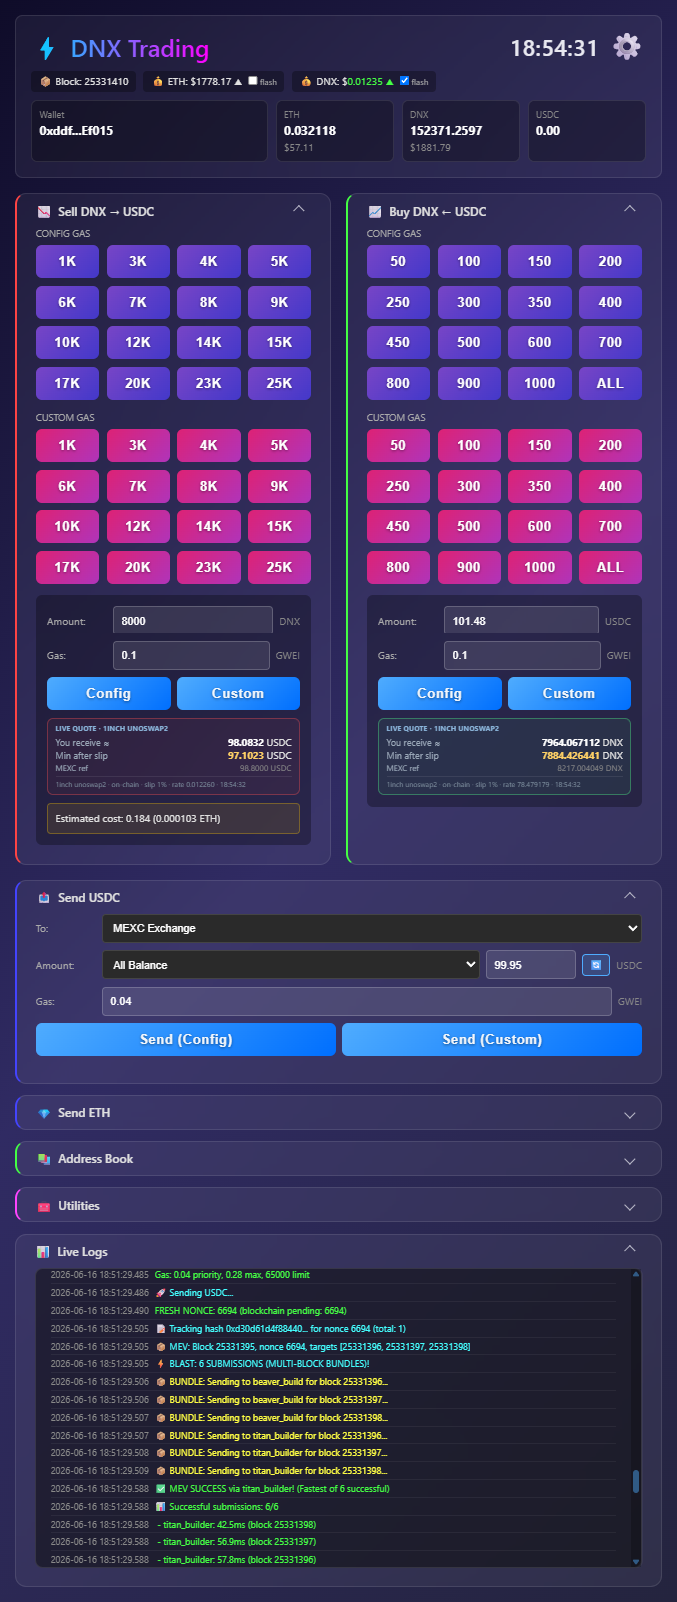
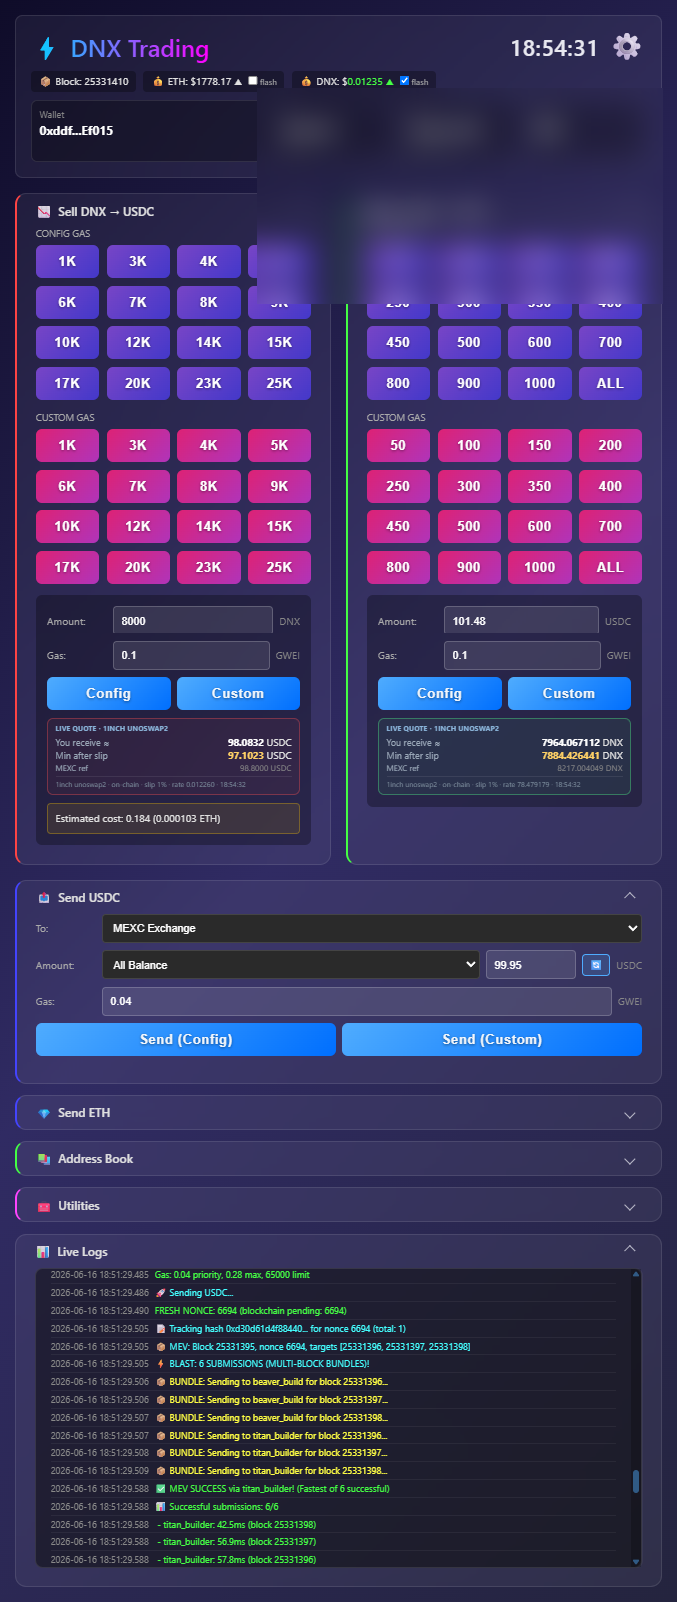
Expand overview: WHY, MEV/sandwich, full features; blur wallet balances

diff --git a/scripts/blur_wallet_balances.py b/scripts/blur_wallet_balances.py
@@ -1,0 +1,12 @@
+#!/usr/bin/env python3
+"""Anonymize wallet balance strip on public overview hero image."""
+from PIL import Image, ImageFilter
+
+path = "/home/lojzo/dex-swapper-overview/assets/dex-swapper-featured.png"
+img = Image.open(path).convert("RGB")
+w, h = img.size
+box = (int(w * 0.38), int(h * 0.055), int(w * 0.98), int(h * 0.19))
+crop = img.crop(box)
+img.paste(crop.filter(ImageFilter.GaussianBlur(radius=14)), box)
+img.save(path, optimize=True)
+print(f"blurred {path} box={box}")

diff --git a/README.md b/README.md
@@ -1,158 +1,174 @@
 # DEX Swapper
 
-![DEX Swapper — operator dashboard](assets/dex-swapper-featured.png)
+![DEX Swapper — operator dashboard (wallet balances anonymized)](assets/dex-swapper-featured.png)
 
-Operator-focused **DEX swap console** — today tuned for **Dynex (DNX) on Ethereum**, with preset sell and buy ladders, config-driven gas, live 1inch quotes, MEV builder submission, fund transfers to exchange addresses, and recovery tooling when nonces or mempools misbehave. One browser page replaces juggling wallet pop-ups, spreadsheets, and SSH log tails during active sessions. Additional token pairs can be wired in later without changing the operator workflow.
+Classic **web DEX interfaces** (1inch, Uniswap, aggregators in the browser) are built for casual users: connect wallet, approve, pick route, confirm in MetaMask, wait for RPC, hope the mempool does not sandwich you. For an operator running **dozens of size ladders per session**, that model breaks down — every swap becomes ten UI steps, unpredictable latency, and zero control over gas tiers or recovery when a nonce sticks.
 
-**Typical flows:** ladder out DNX after a CEX move → tap a **CONFIG GAS** sell size → confirm **Config** with live quote visible → watch **Live Logs** for builder blast and confirmation. Buy the dip → **Buy DNX ← USDC** preset → **Custom** with manual priority fee when the mempool spikes. Move proceeds to MEXC → expand **Send USDC**, pick exchange from the dropdown, **Send (Config)**. Stuck pending swap → **Settings** → **Check Stuck Transactions** → **Cancel Specific Nonce** or **Cancel ALL Pending**. Gas table tweak → edit `dex_swapper_gas_config.json` → **Reload Config** in settings.
+**DEX Swapper** is a **single-page operator console** wired to your own key and node. Today it targets **Dynex (DNX) ⇄ USDC on Ethereum**; the same preset-ladder + MEV pipeline can host additional pairs later. One click runs a pre-built swap path: live quote visible, config gas from JSON tables, parallel private-builder submission, and live logs — no wallet pop-up chain, no tab switching, no guessing whether the tx landed.
+
+**Why speed matters:** DNX moves on CEX tape and thin pools. The difference between a **one-click preset** and a browser DEX flow is often **seconds vs tens of seconds** — enough to miss a ladder step or eat slippage. The app optimizes the hot path: transaction templates pre-built at startup, base fee from `newHeads` WebSocket (no extra `get_block` per swap), balances and quotes cached in RAM, and **swap-in-progress lock** so you cannot double-fire while a bundle is in flight.
+
+**Typical flows:** ladder out DNX after a CEX move → **CONFIG GAS** sell size → **Config** with live quote → **Live Logs** for builder blast. Buy the dip → **Buy DNX ← USDC** preset → **Custom** priority fee when mempool spikes. Move proceeds → **Send USDC** to MEXC from address book. Stuck nonce → **Settings** → **Check Stuck** → **Cancel Specific Nonce** or **Cancel ALL**. Tune gas bands → edit `dex_swapper_gas_config.json` → **Reload Config** without restart.
 
 ## Tech stack
 
 | Layer | Technologies |
 |-------|--------------|
 | Backend | Python 3, FastAPI, uvicorn, asyncio |
-| Chain | Web3.py — swaps via 1inch router, ERC-20 transfers, EIP-1559 gas |
-| Pricing | MEXC protobuf WebSocket trades + on-chain pool math for DNX reference |
-| Block head | `newHeads` WebSocket — base fee cached in RAM between swaps |
-| MEV | HTTP keep-alive to private builders (BeaverBuild, Titan); multi-block bundle blast |
-| UI | Single-page HTML/CSS/JS embedded in FastAPI — dark operator theme |
-| Streaming | WebSocket `/ws/logs` — structured log, block, price, balance, swap events |
-| Config | JSON gas ranges (`dex_swapper_gas_config.json`), UI presets (`ui_config.json`) |
-| Secrets | Local `.env` — RPC URLs, private key, builder endpoints (private repo only) |
+| Chain | Web3.py — 1inch `unoswap2` router, ERC-20 transfers, EIP-1559 |
+| Pricing | MEXC protobuf WebSocket (ETHUSDT, DNXUSDT) + on-chain pool reference |
+| Block head | `eth_subscribe` `newHeads` — block number + base fee cached in RAM |
+| MEV | Persistent HTTP to BeaverBuild + Titan; parallel multi-block bundle blast |
+| Quotes | On-chain `unoswap2` `eth_call` only for `minReturn` (no stale CEX fallback) |
+| UI | Embedded HTML/CSS/JS — dark operator theme, collapsible panels |
+| Streaming | WebSocket `/ws/logs` — logs, blocks, prices, balances, swap state |
+| Config | `dex_swapper_gas_config.json` (gas tiers), `ui_config.json` (presets, nodes) |
+| Secrets | `.env` — key, RPC URLs, builder endpoints (**private repo only**) |
+
+## Problems this replaces (browser DEX workflow)
+
+| Pain in browser swappers | DEX Swapper approach |
+|--------------------------|----------------------|
+| MetaMask confirm on every trade | Server-side sign; operator clicks **Config** / **Custom** once |
+| Route UI + slippage modals | Fixed 1inch path; slippage % in **Settings** |
+| Gas guessed by wallet | **CONFIG GAS** tiers by size band, or manual GWEI |
+| No preset ladders | Purple/pink grids — 16+ sell sizes, 15+ buy notionals |
+| Public mempool exposure | **Private MEV builders only** — no public broadcast fallback |
+| Sandwich / frontrun anxiety | Block monitor + known attacker watch → **auto cancel all pending** |
+| Stuck pending invisible | **Check Stuck**, nonce scan, cancel via builders |
+| Balances in another tab | Header wallet card + auto refresh (~6 s) |
+| No session log | **Live Logs** WebSocket stream in-page |
+
+## MEV protection and sandwich response
+
+Swaps do **not** rely on the public mempool as the primary path. Signed raw transactions go to **BeaverBuild** and **Titan** in parallel, targeting **multiple future blocks** per submit. Builder HTTP sessions stay warm with keep-alive pings between trades.
+
+| Mechanism | Behavior |
+|-----------|----------|
+| **Parallel blast** | All active builders × block targets fired concurrently; fastest accept wins |
+| **Re-blast monitor** | If receipt missing ~24 s (~2 blocks), raw tx re-submitted to builders |
+| **No mempool fallback** | Monitor loop does not drop to public `eth_sendRawTransaction` for swaps |
+| **Cancel via builders** | Stuck swap/send cancel uses same builder path with USD cost ceiling |
+| **Attacker block watch** | Each `newHeads` block scanned; tx `from` matching configured sandwich bot → **Cancel ALL Pending** immediately |
+| **Swap lock** | `swap_in_progress` blocks second submit until current nonce path clears |
+
+This is **operator-grade MEV routing**, not a consumer “shield” toggle — you see every builder accept/reject in **Live Logs**.
+
+## Performance optimizations (hot path)
+
+- **Pre-built transaction templates** for DNX→USDC and USDC→DNX at startup — click only fills amount + `minReturn`.
+- **Base fee from WebSocket** — `baseFeePerGas` in block header updates `global_block`; gas math avoids RPC on every swap when feed is fresh (&lt;15 s).
+- **Single nonce RPC** — tracked nonce increments locally; `get_transaction_count(pending)` only when needed.
+- **Silent balance refresh** — background poll without spamming the log panel.
+- **Quote simulation** — USDC balance/allowance state override for `eth_call` when wallet USDC is zero but sell quote is needed.
+- **Fixed gas limits** per operation type (sell / buy / send) — no `estimate_gas` round-trip on the critical path.
+- **Config reload** — gas JSON + UI JSON re-read via API without process restart.
 
 ## Header — chain context and wallet
-
-The top band stays visible while you work the swap cards below.
 
 | Element | Role |
 |---------|------|
 | **Clock** | Local session time |
-| **Block** | Latest head from the block monitor |
-| **ETH price** | Reference USD for fee estimates (flash icon when the quote tick updates) |
-| **DNX price** | MEXC trade tape + on-chain reference; direction arrow on change |
-| **Wallet card** | Truncated address with **ETH**, **DNX**, and **USDC** balances (USD sublabels) |
-
-Balances refresh on a short interval so you see spendable amounts before hitting a preset. **Settings** (gear) opens the modal documented below.
+| **Block** | Latest head from block monitor (same WS feed as base fee) |
+| **ETH price** | MEXC tape; flash on tick |
+| **DNX price** | MEXC + on-chain ref; direction arrow |
+| **Wallet card** | ETH, DNX, USDC with USD sublabels (auto refresh) |
+| **Settings** | Gear → modal below |
 
 ## Sell DNX → USDC and Buy DNX ← USDC
 
-Two side-by-side cards mirror how operators run repeated size ladders.
+Side-by-side cards for ladder trading.
 
 ### Preset grids
 
-Each card exposes two button grids:
-
 | Grid | Behavior |
 |------|----------|
-| **CONFIG GAS** (purple) | Amount presets from `ui_config.json`; priority fee and base-fee multiplier come from `dex_swapper_gas_config.json` for that size band |
-| **CUSTOM GAS** (pink) | Same amount presets; you type priority fee (GWEI) in the **Gas** field and submit with **Custom** |
+| **CONFIG GAS** (purple) | Amount from `ui_config.json`; priority fee + base-fee multiplier from `dex_swapper_gas_config.json` per band |
+| **CUSTOM GAS** (pink) | Same amounts; operator types priority GWEI → **Custom** |
 
-**Sell DNX** presets span ladder sizes from small clips through large clips (configurable list). **Buy DNX** presets cover USDC notionals plus an **ALL** button that uses full USDC balance rounded down to avoid dust failures.
-
-### Amount, gas, and submit
-
-- **Amount** — numeric field; clicking a preset fills it.
-- **Gas** — priority fee in GWEI for custom path; config path ignores manual entry.
-- **Config / Custom** — primary actions; each path uses fixed gas limits tuned per operation type (DNX sell, USDC buy, sends).
+**Sell** — ladder from small clips to large (configurable). **Buy** — USDC notionals + **ALL** (full balance, rounded down).
 
 ### Live quote panel
 
-Below each card, a **LIVE QUOTE** box polls the 1inch route (Uniswap V2 path in the UI label). It shows **You receive**, **Min after slip** (slippage from settings), and **MEXC ref** so you can compare on-chain output against the CEX tape before sending. Quotes auto-refresh every 1–60 seconds (configured in settings) without flashing the whole page.
+**LIVE QUOTE** polls on-chain `unoswap2` (1inch). Shows **You receive**, **Min after slip**, **MEXC ref**. Refresh interval 1–60 s from settings. **Estimated cost** (ETH + USD) under sell card.
 
-**Estimated cost** under the sell card summarizes expected gas in ETH and USD for the chosen size.
+Execution uses on-chain quote for `minReturn` only — swap blocked if `unoswap2` fails (never silent CEX fallback).
 
 ## Send USDC and Send ETH
 
-Collapsible panels below the swap cards move proceeds without leaving the app.
+Collapsible panels — exchange withdrawals without leaving the app.
 
-### Send USDC
-
-- **To** — dropdown: named exchange addresses (e.g. MEXC, Gate.io) from the address book, or custom entries you maintain.
-- **Amount** — preset chips (including **All Balance**) plus numeric field.
-- **Gas** — config or custom priority fee; **Send (Config)** / **Send (Custom)** mirror the swap card pattern.
-
-### Send ETH
-
-Same layout for native ETH transfers — gas presets tuned for smaller limits than swaps. Collapsed by default in the panel order; expand when bridging gas to an exchange wallet.
+- **Send USDC** — address book dropdown (MEXC, Gate.io, custom), amount presets, **All Balance**, Config/Custom gas.
+- **Send ETH** — same pattern; collapsed by default in panel order.
 
 ## Address book
 
-Collapsible **Address Book** panel lists named withdrawal targets (exchanges and custom labels). Entries feed the **Send USDC** / **Send ETH** dropdowns. Add, edit, and persist labels through the UI — no hard-coded-only workflow.
+Named withdrawal targets; CRUD in UI; feeds send dropdowns.
+
+## Node settings
+
+Switch **local Geth**, **Infura**, **Alchemy**, **QuickNode** from `ui_config.json`. **Test node** / **Check node health** before size. Startup **node sync check** compares local head vs public RPC latency and sync status.
 
 ## Utilities panel
 
-Collapsible **Utilities** groups operational shortcuts (nonce inspection, config reload triggers accessible from the main settings modal as well). Use when you need chain hygiene without opening a separate script.
+Shortcuts for nonce hygiene (detailed actions also in Settings modal).
 
 ## Settings modal
 
 ![Settings — gas defaults, cancel nonce, utilities](assets/dex-swapper-settings.png)
 
-Open via the header gear. Sections:
-
 ### Default gas (GWEI)
 
 | Field | Purpose |
 |-------|---------|
-| **Swap Gas** | Default priority fee for swap submissions |
-| **Send Gas** | Default for USDC/ETH sends |
-| **Cancel Gas** | Priority for cancel transactions |
-| **Slippage %** | `minReturn` tolerance on 1inch quotes |
-| **Quote refresh (sec)** | Live quote polling interval (1–60) |
+| **Swap Gas** | Default priority for swaps |
+| **Send Gas** | USDC/ETH sends |
+| **Cancel Gas** | Cancel transactions |
+| **Slippage %** | `minReturn` tolerance |
+| **Quote refresh (sec)** | Live quote poll (1–60) |
 
-**Save Settings** writes defaults back to `ui_config.json`.
+**Save Settings** → `ui_config.json`.
 
 ### Cancel specific nonce
 
-Enter **Nonce #** and gas GWEI (minimum ~10% above the original transaction). **Cancel** fires an on-chain cancel through the MEV builder path with a cost ceiling guard.
+Nonce # + gas GWEI → on-chain cancel through builders (cost ceiling).
 
-### Utilities buttons
+### Utilities
 
 | Action | Effect |
 |--------|--------|
-| **Check Stuck Transactions** | Scans pending nonces across a wide block window; lists mempool vs confirmed state **without** auto-cancel |
-| **Cancel ALL Pending Transactions** | Broadcasts cancels for every tracked pending nonce via builders |
-| **Reload Config** | Re-reads `dex_swapper_gas_config.json` and `ui_config.json` without restarting the process |
+| **Check Stuck Transactions** | Wide block scan; lists pending vs confirmed — no auto-cancel |
+| **Cancel ALL Pending** | Builder cancels for every tracked nonce |
+| **Reload Config** | Hot reload `dex_swapper_gas_config.json` + `ui_config.json` |
 
-## Live logs and MEV submission
+## Live logs
 
-The **Live Logs** panel streams color-coded events over WebSocket: gas decisions, quote refreshes, balance updates, block ticks, swap lifecycle, and builder traffic.
-
-On submit, the engine blasts signed raw transactions to connected **MEV builders** across multiple future block targets. Logs show per-builder accept/reject, bundle counts, and latency. When a transaction drops from mempool view, an automatic re-blast can resubmit to builders. Keep-alive pings maintain builder HTTP sessions between trades.
-
-Use this panel instead of tailing server stdout during time-sensitive sells.
-
-## Node and RPC selection
-
-**Node settings** (collapsible panel) switch between **local Geth**, **Infura**, **Alchemy**, and **QuickNode** profiles defined in `ui_config.json`. Health check and test actions confirm HTTP/WS reachability before you route production size. Chain ID stays on Ethereum mainnet.
+WebSocket stream: gas picks, quotes, balances, blocks, MEV builder traffic, swap lifecycle, attacker alerts. Use instead of SSH `tail` during active sessions.
 
 ## Recovery and safety
 
-Built for operational incidents, not unattended bots:
+- **Cancel current swap** / **Cancel current send** — active nonce only
+- **Nonce status** — blockchain pending vs locally tracked (MetaMask desync diagnosis)
+- **Deep stuck scan** — per-nonce tx history across thousands of blocks
+- **Cancel all** — emergency clear
 
-- **Cancel current swap** — targets the nonce assigned to the in-flight swap.
-- **Cancel current send** — same for the active USDC/ETH send.
-- **Nonce status API** — compares blockchain pending vs locally tracked nonce (helps when an external wallet desyncs).
-- **Stuck scan** — deep block walk for your address’s transactions per nonce.
-- **Cancel all** — emergency clear of the pending map.
-
-Treat elevated cancel gas and builder cancel paths as operator-grade tools — test on small size before relying on them under load.
+Operator tools — validate on small size first.
 
 ## Configuration files
 
 | File | Role |
 |------|------|
-| `dex_swapper_gas_config.json` | Amount bands → priority fee + base-fee multiplier for config-gas path |
-| `ui_config.json` | Preset ladders, panel collapse order, address book, node profiles, UI defaults |
-| `.env` | Private key, API keys, optional builder URLs — **private repo only** |
+| `dex_swapper_gas_config.json` | Amount bands → priority fee + base-fee multiplier |
+| `ui_config.json` | Presets, panel order, address book, node profiles, defaults |
+| `.env` | Private key, API keys — **private repo only** |
 
 ## Quick start
 
 ```bash
-# private repo — configure .env and gas JSON first
 python3 dex_swapper.py
 ```
 
-Default browser URL uses the port in `ui_config.json` (commonly `8024` in development).
+Port from `ui_config.json` (commonly `8024`).
 
 Private implementation: [logicencoder/dex-swapper](https://github.com/logicencoder/dex-swapper).
 